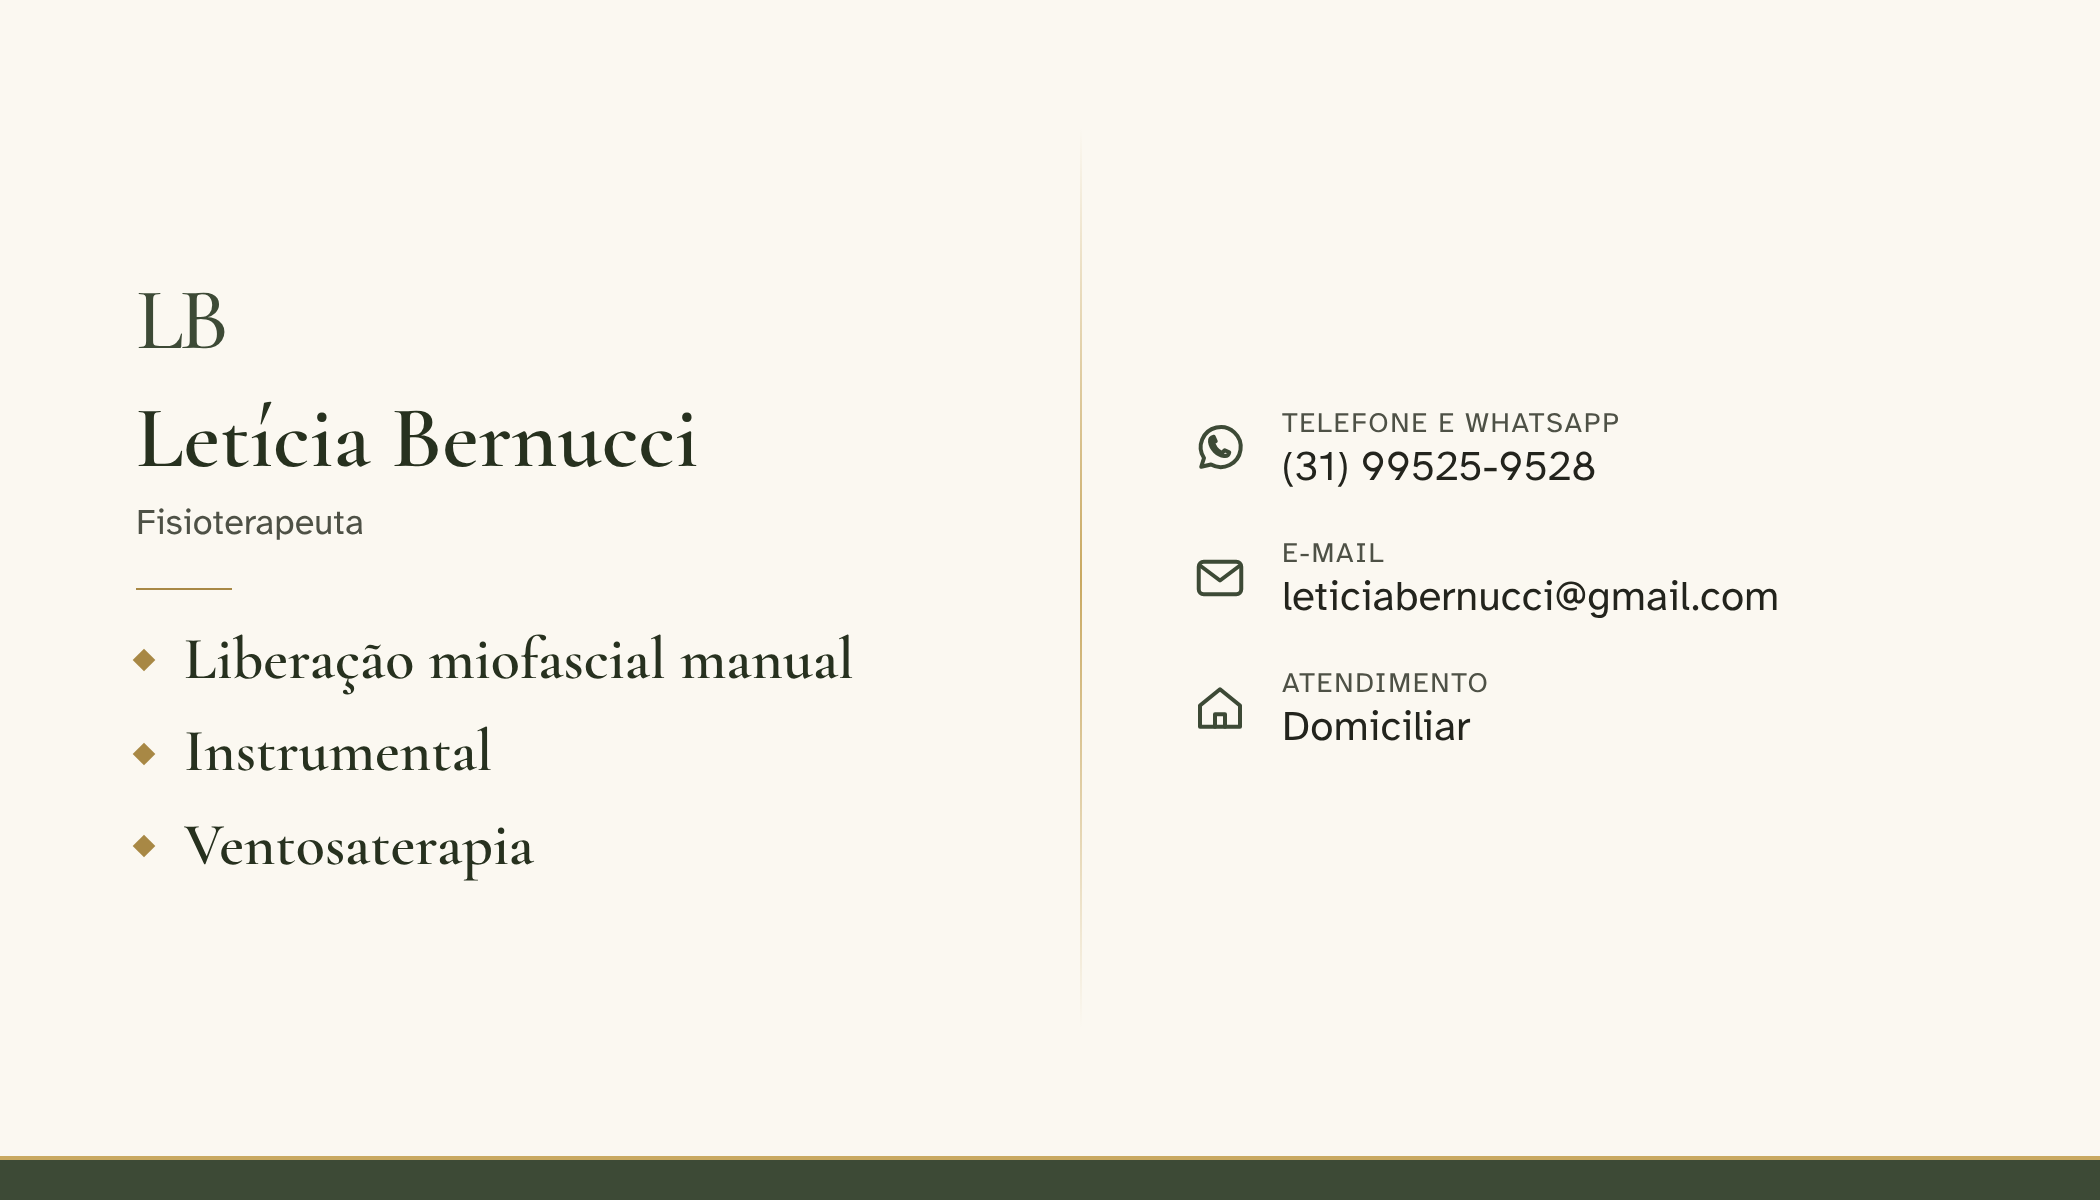
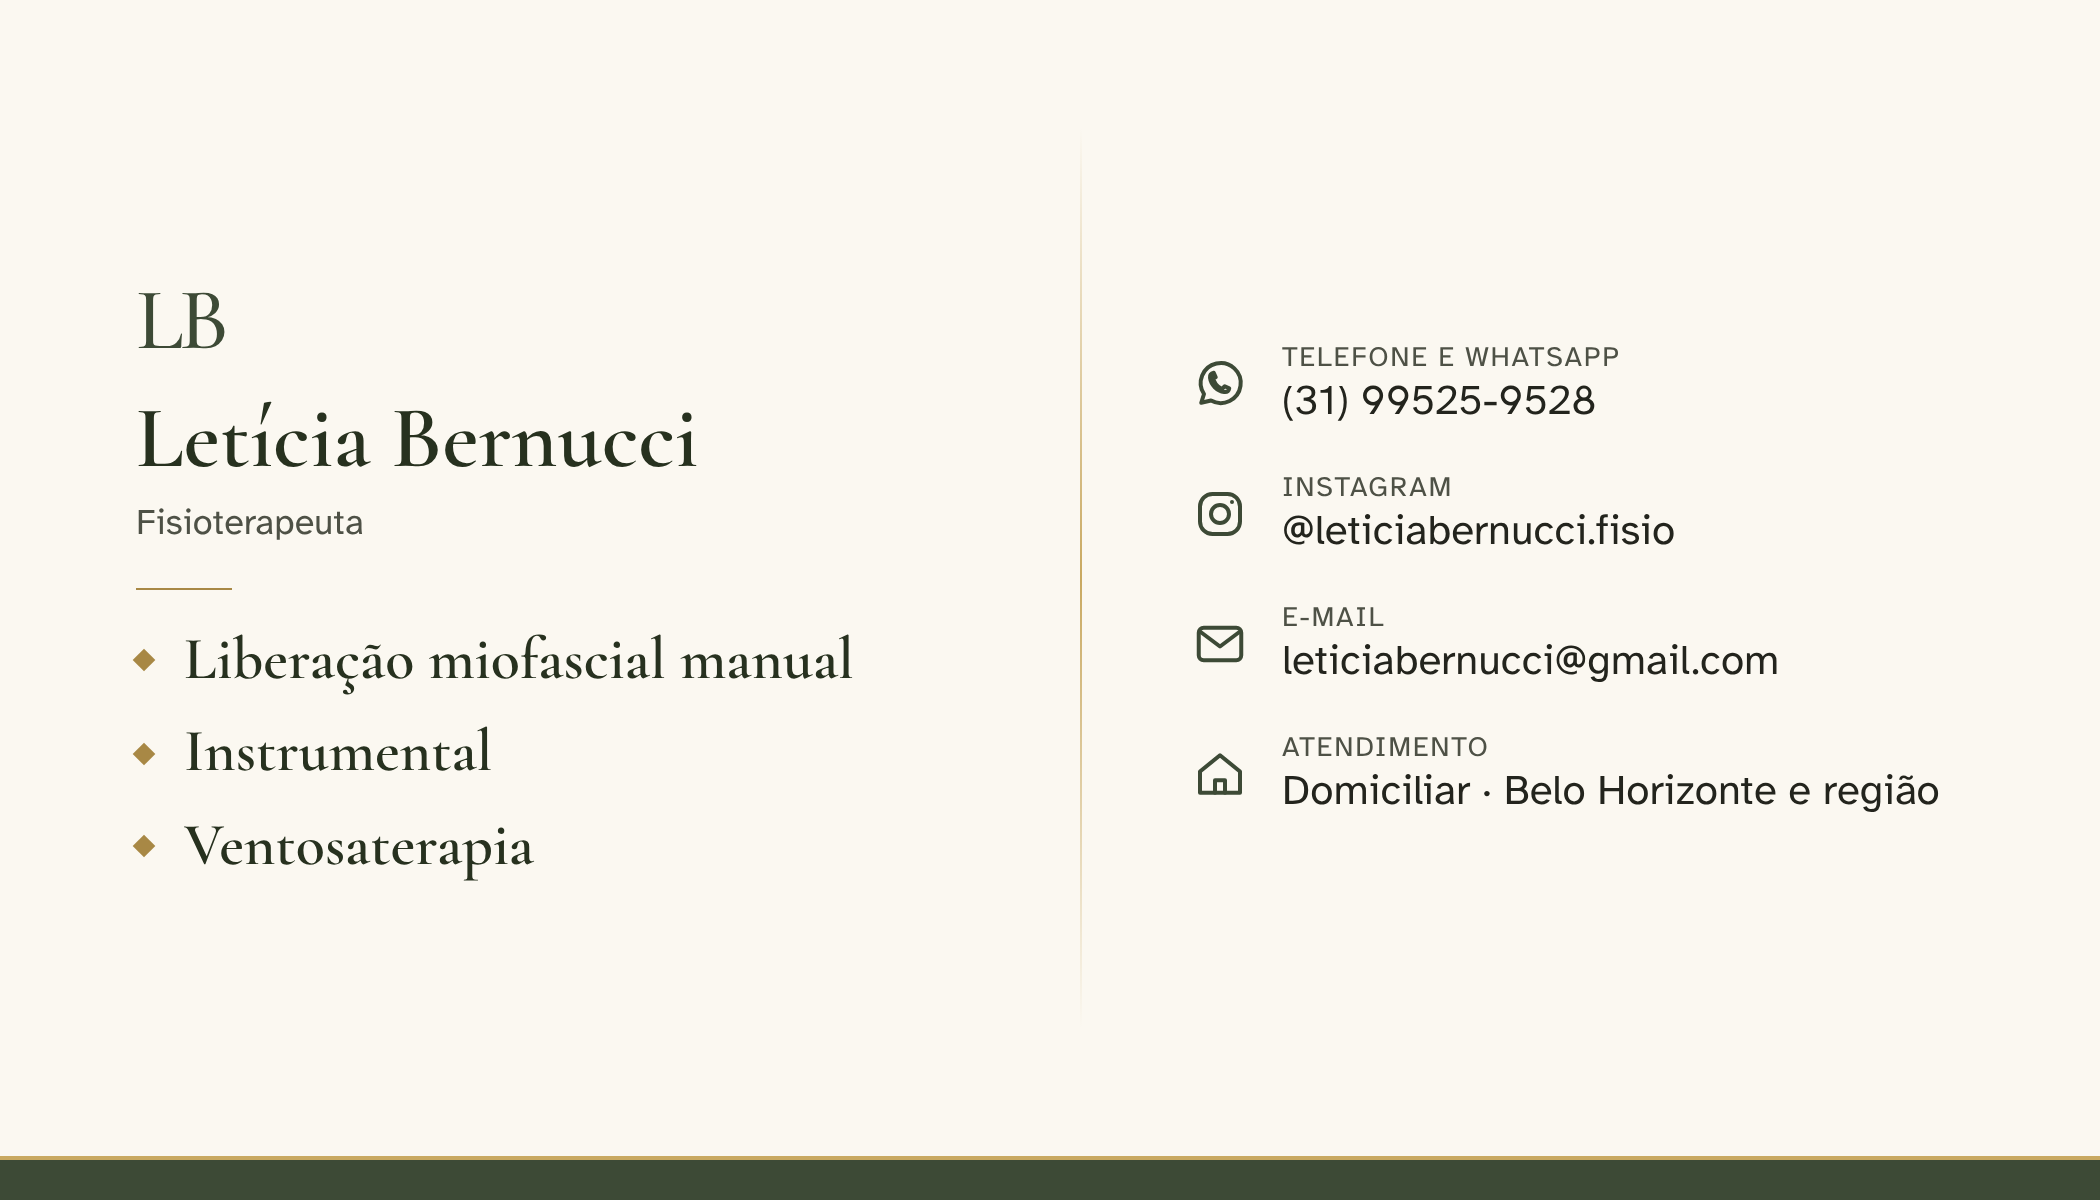
Cartão: Instagram e região de atendimento
- Instagram @leticiabernucci.fisio (botão na página, imagens e contato
  salvo).
- Atendimento domiciliar em Belo Horizonte e região (página, imagens e
  descrição da prévia do link).
- Região em duas linhas ao lado do ícone, sem quebra solta no celular.

Claude-Session: https://claude.ai/code/session_01P7P3DMQgmU9pvidckpJpap

Changed region(s): [[0.5571, 0.2775, 0.9286, 0.6783]]

diff --git a/cartao/index.html b/cartao/index.html
@@ -4,11 +4,11 @@
   <meta charset="utf-8">
   <meta name="viewport" content="width=device-width, initial-scale=1, viewport-fit=cover">
   <title>Letícia Bernucci · Fisioterapia</title>
-  <meta name="description" content="Liberação miofascial manual, instrumental e ventosaterapia. Atendimento domiciliar.">
+  <meta name="description" content="Liberação miofascial manual, instrumental e ventosaterapia. Atendimento domiciliar em Belo Horizonte e região.">
   <meta name="theme-color" content="#3D4A36">
   <meta property="og:type" content="website">
   <meta property="og:title" content="Letícia Bernucci · Fisioterapia">
-  <meta property="og:description" content="Liberação miofascial manual · Instrumental · Ventosaterapia · Atendimento domiciliar.">
+  <meta property="og:description" content="Liberação miofascial manual · Instrumental · Ventosaterapia · Atendimento domiciliar em Belo Horizonte e região.">
   <meta property="og:image" content="https://lbfisioterapia.github.io/LB-fisioterapia/cartao/imagens/cartao-link.png">
   <meta property="og:url" content="https://lbfisioterapia.github.io/LB-fisioterapia/cartao/">
   <link rel="icon" href="../img/icone.svg" type="image/svg+xml">
@@ -58,7 +58,8 @@
     .servicos { list-style: none; margin: 0 auto; padding: 0; display: flex; flex-direction: column; gap: 10px; width: fit-content; max-width: 100%; }
     .servicos li { display: flex; align-items: center; gap: 14px; font-family: var(--titulo); font-weight: 600; font-size: 1.5rem; line-height: 1.2; color: var(--musgo-escuro); }
     .servicos li::before { content: ""; width: 7px; height: 7px; flex: none; background: var(--dourado-escuro); transform: rotate(45deg); }
-    .atendimento { margin: 0; text-align: center; color: var(--texto-suave); font-weight: 700; display: flex; justify-content: center; align-items: center; gap: 8px; flex-wrap: wrap; }
+    .atendimento { margin: 0; color: var(--texto-suave); font-weight: 700; display: flex; justify-content: center; align-items: center; gap: 10px; }
+    .atendimento span { text-wrap: balance; }
 
     .acoes { display: flex; flex-direction: column; gap: 10px; }
     .botao {
@@ -122,8 +123,12 @@
       if (!C.mensagem || !servicos.children.length) document.querySelector(".regua-escura").hidden = true;
 
       const atend = document.getElementById("atendimento");
-      const textoAtend = [C.atendimento, marcar(C.cidade, "[cidade]")].filter(Boolean).join(" · ");
-      if (textoAtend) atend.append(icone("casa"), el("span", null, textoAtend)); else atend.hidden = true;
+      const linhasAtend = [C.atendimento, marcar(C.cidade, "[cidade]")].filter(Boolean);
+      if (linhasAtend.length) {
+        const texto = el("span");
+        linhasAtend.forEach((t, i) => { if (i) texto.append(document.createElement("br")); texto.append(t); });
+        atend.append(icone("casa"), texto);
+      } else atend.hidden = true;
 
       const acoes = document.getElementById("acoes");
       const aviso = document.getElementById("aviso");

diff --git a/cartao/dados.js b/cartao/dados.js
@@ -10,11 +10,11 @@ window.CARTAO = {
   registro: "",            // ex.: "CREFITO-4 000000-F"
   servicos: ["Liberação miofascial manual", "Instrumental", "Ventosaterapia"], // tópicos em destaque
   atendimento: "Atendimento domiciliar",
-  cidade: "",              // ex.: "Belo Horizonte · MG"
+  cidade: "Belo Horizonte e região",              // ex.: "Belo Horizonte · MG"
   telefone: "31995259528", // só números, com DDD
   whatsapp: "31995259528", // só números, com DDD ("" se o número não tiver WhatsApp)
   mensagemWhatsapp: "Olá, Letícia! Gostaria de agendar um atendimento.",
-  instagram: "",           // sem o @
+  instagram: "leticiabernucci.fisio",           // sem o @
   email: "leticiabernucci@gmail.com",
   link: ""                 // vazio = usa o endereço onde o cartão estiver publicado
 };
